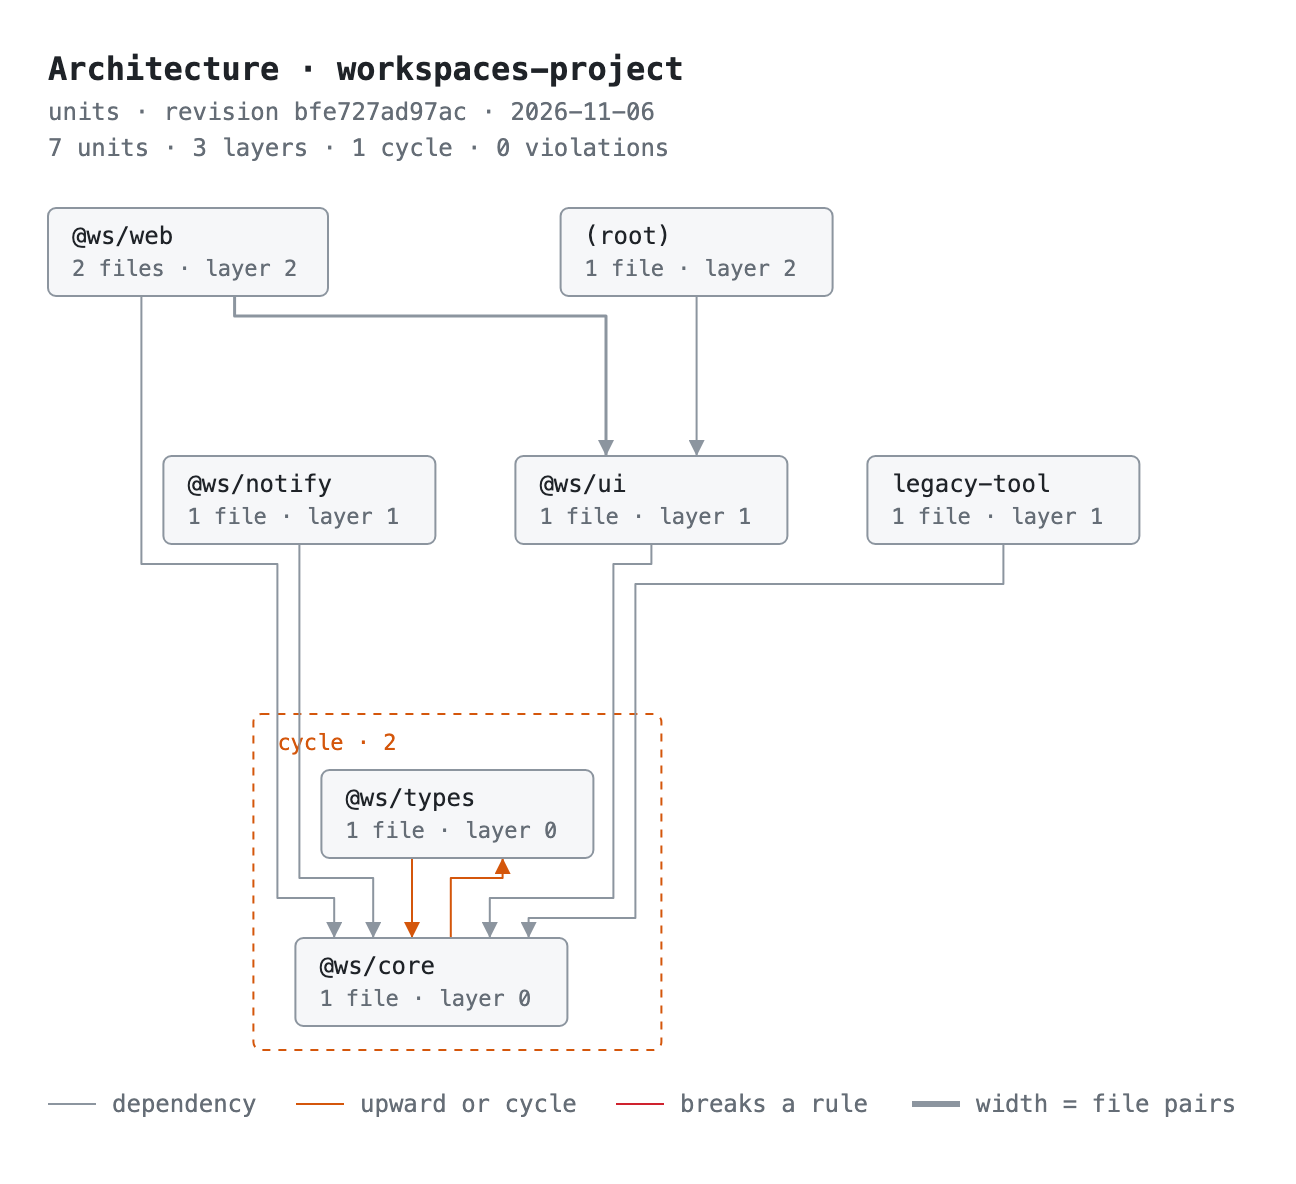
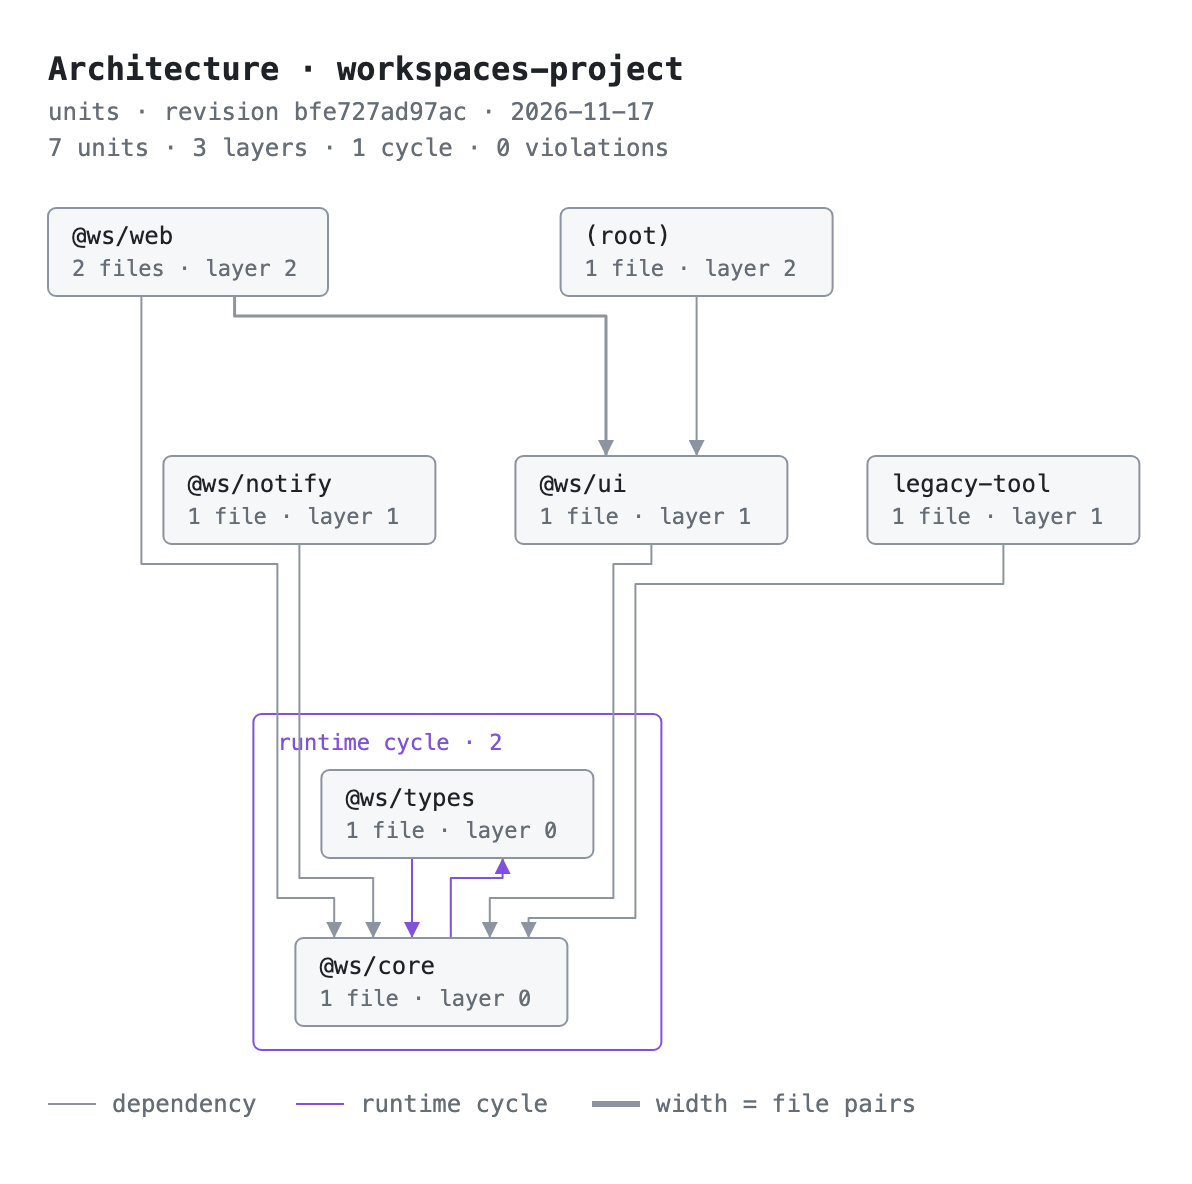
docs(media): cycle kinds in the file graph and the init page, matrix panel, refreshed CLI diagram for 1.25.3

diff --git a/site/index.html b/site/index.html
@@ -481,7 +481,7 @@ footer{border-top:1px solid var(--line);padding:46px 0 40px;color:var(--muted);f
     <div class="shot rev rv" style="margin-bottom:64px">
       <div class="shot-txt">
         <h3>From file imports down to a single symbol</h3>
-        <p>The file graph shows what a file imports and what depends on it, with cycles. Double-click a file: Symbol View turns it into its own little graph — exports, internals, and who calls what.</p>
+        <p>The file graph shows what a file imports and what depends on it, with cycles; a cycle made only of type imports is drawn dotted, apart from runtime ones. Double-click a file: Symbol View turns it into its own little graph — exports, internals, and who calls what.</p>
         <ul>
           <li>Functions, classes and variables with export status</li>
           <li>Outgoing calls and incoming callers side by side</li>
@@ -556,13 +556,14 @@ footer{border-top:1px solid var(--line);padding:46px 0 40px;color:var(--muted);f
         <ul>
           <li>Summary first, then dead files, cycles to cut and quick wins ranked by gain / effort</li>
           <li>Click a finding to centre the graph on its files</li>
-          <li>Dead files have a dashed border; cycle and upward edges in orange</li>
+          <li>One legend shared with the SVG diagrams: runtime cycles solid, type-only cycles dotted, lazy <code>import()</code> cycles dashed; upward edges in orange, dead files with a dashed border</li>
+          <li>A Dependency matrix panel with the cells to cut marked and a guide to reading it; each finding carries its <code>next</code> command</li>
           <li><code>--focus &lt;unit|folder&gt;</code>: one unit and its direct neighbours, with what it depends on and what uses it</li>
         </ul>
       </div>
       <div class="frame">
         <div class="frame-bar"><i class="dot"></i><i class="dot"></i><i class="dot"></i><span>graph-it init — index.html</span></div>
-        <img src="media/init-explorable-page.png" alt="index.html written by graph-it init on tests/demo/legacy-shop: the Findings panel lists the dead files and the cycles to cut, the graph shows the files grouped by unit, two dead files with a dashed border and the cycle edges in orange" loading="lazy">
+        <img src="media/init-cycle-kinds.png" alt="index.html written by graph-it init --output: the Findings panel lists the dead file and the cycles to cut, each with its next command; the graph groups the files by unit, a runtime cycle as solid purple edges, a type-only cycle dotted, a lazy import() cycle dashed, and the shared legend under the groups" loading="lazy">
       </div>
     </div>
   </div>

diff --git a/README.md b/README.md
@@ -103,7 +103,13 @@ Supported projects include TypeScript, JavaScript, Python, Rust, C#, Go, Java, V
 ### File dependency graph
 
 - Visualize file-to-file imports across a workspace.
-- Detect circular dependencies and highlight cycles.
+- Detect circular dependencies and highlight cycles. A cycle whose every import is type-only (`import type`, Python `if TYPE_CHECKING:`) is drawn dotted and labelled `type-only`, apart from runtime cycles; `graph-it-live.ignoreTypeImports` hides type-only edges at once.
+
+<div align="center">
+<img src="media/file-graph-type-only-cycle.png" alt="File graph from main.ts: cart.ts and pricing.ts import each other at runtime, a red dashed edge labelled cycle with red cycle badges; order.ts and customer.ts import only types from each other, a grey dotted edge labelled type-only without a badge" width="800"/>
+</div>
+
+*Graph-It-Live: Show Dependency Graph on a file, then Expand All.*
 - Expand and collapse nodes as you explore.
 - Open files directly from graph nodes.
 - Find reverse dependencies with an indexed lookup.
@@ -270,10 +276,18 @@ On an existing codebase, start with `graph-it init`: it guards the architecture 
 With `--output <dir>`, `init` also writes `report.md`, SVG diagrams and `index.html`. This offline page groups the files by architecture unit and lists the report's findings beside the graph. Click a finding to centre the graph on its files.
 
 <div align="center">
-<img src="media/init-explorable-page.png" alt="index.html written by graph-it init --output on tests/demo/legacy-shop: the Findings panel lists the dead files and the cycles to cut, the graph shows the files grouped by unit, two dead files with a dashed border and the cycle edges in orange" width="800"/>
+<img src="media/init-cycle-kinds.png" alt="index.html written by graph-it init --output: the Findings panel lists the dead file and the cycles to cut, each with its next command; the graph groups the files by unit, a runtime cycle as solid purple edges, a type-only cycle dotted, a lazy import() cycle dashed, and the shared legend under the groups" width="800"/>
 </div>
 
-*`graph-it init --output report` on `tests/demo/legacy-shop`, then open `report/index.html`.*
+*`graph-it init --output report`, then open `report/index.html`. The legend is the same in the SVG diagrams and on the page.*
+
+The **Dependency matrix** panel, inside Findings, shows the units' matrix with the cells to cut marked, cycles outlined by kind, and a guide to reading it:
+
+<div align="center">
+<img src="media/init-matrix-panel.png" alt="The Dependency matrix panel of index.html: seven units in layer order, a runtime cycle outlined solid, a type-only cycle dotted and a lazy cycle dashed, the cell to cut in each framed, and under it How to read the matrix with one line per pattern" width="800"/>
+</div>
+
+*Open Findings, then Dependency matrix; click a cell to list its file pairs.*
 
 `--focus <unit|folder>` keeps one unit or folder and its direct neighbours, and adds a panel listing what it depends on and what uses it:
 

diff --git a/docs/CLI.md b/docs/CLI.md
@@ -1092,7 +1092,7 @@ graph-it diagram [<dir>] [--view units|folder|matrix] [--folder <key>] [--format
 
 At most 60 units or groups are drawn, the largest ones; a note counts the others, and the header counts cover the whole level. Under the matrix, a note says how to read it: row imports column, N file pairs per cell, the greyed diagonal counting the pairs inside each row. The output has no script, no external resource and no `foreignObject`. Labels are escaped, and paths are workspace-relative.
 
-<img src="../media/cli-diagram-units.svg" alt="graph-it diagram on tests/fixtures/workspaces-project: seven units in three layers, the cycle between @ws/core and @ws/types outlined, edge widths by file pairs, and a legend" width="648"/>
+<img src="../media/cli-diagram-units.svg" alt="graph-it diagram on tests/fixtures/workspaces-project: seven units in three layers, the cycle between @ws/core and @ws/types outlined, edge widths by file pairs, and a legend" width="596"/>
 
 *`graph-it diagram --format svg` on `tests/fixtures/workspaces-project`.*
 
